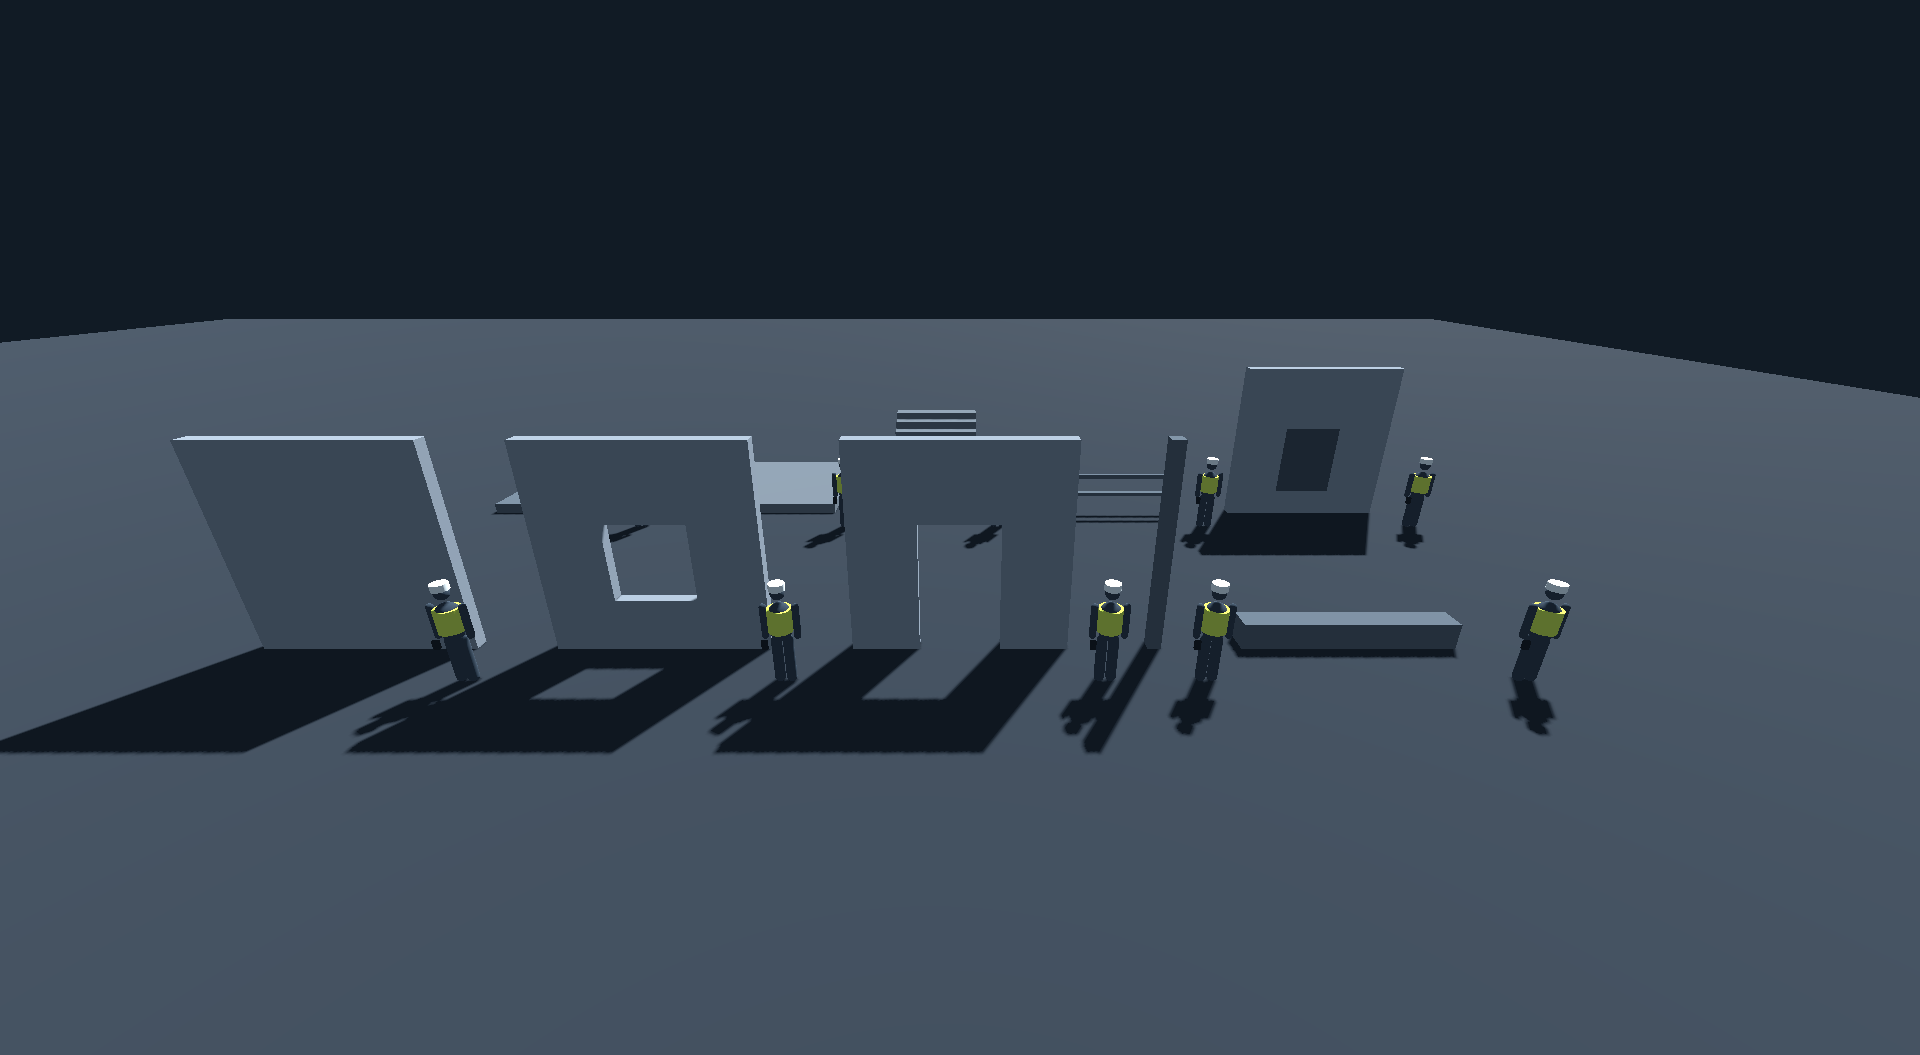
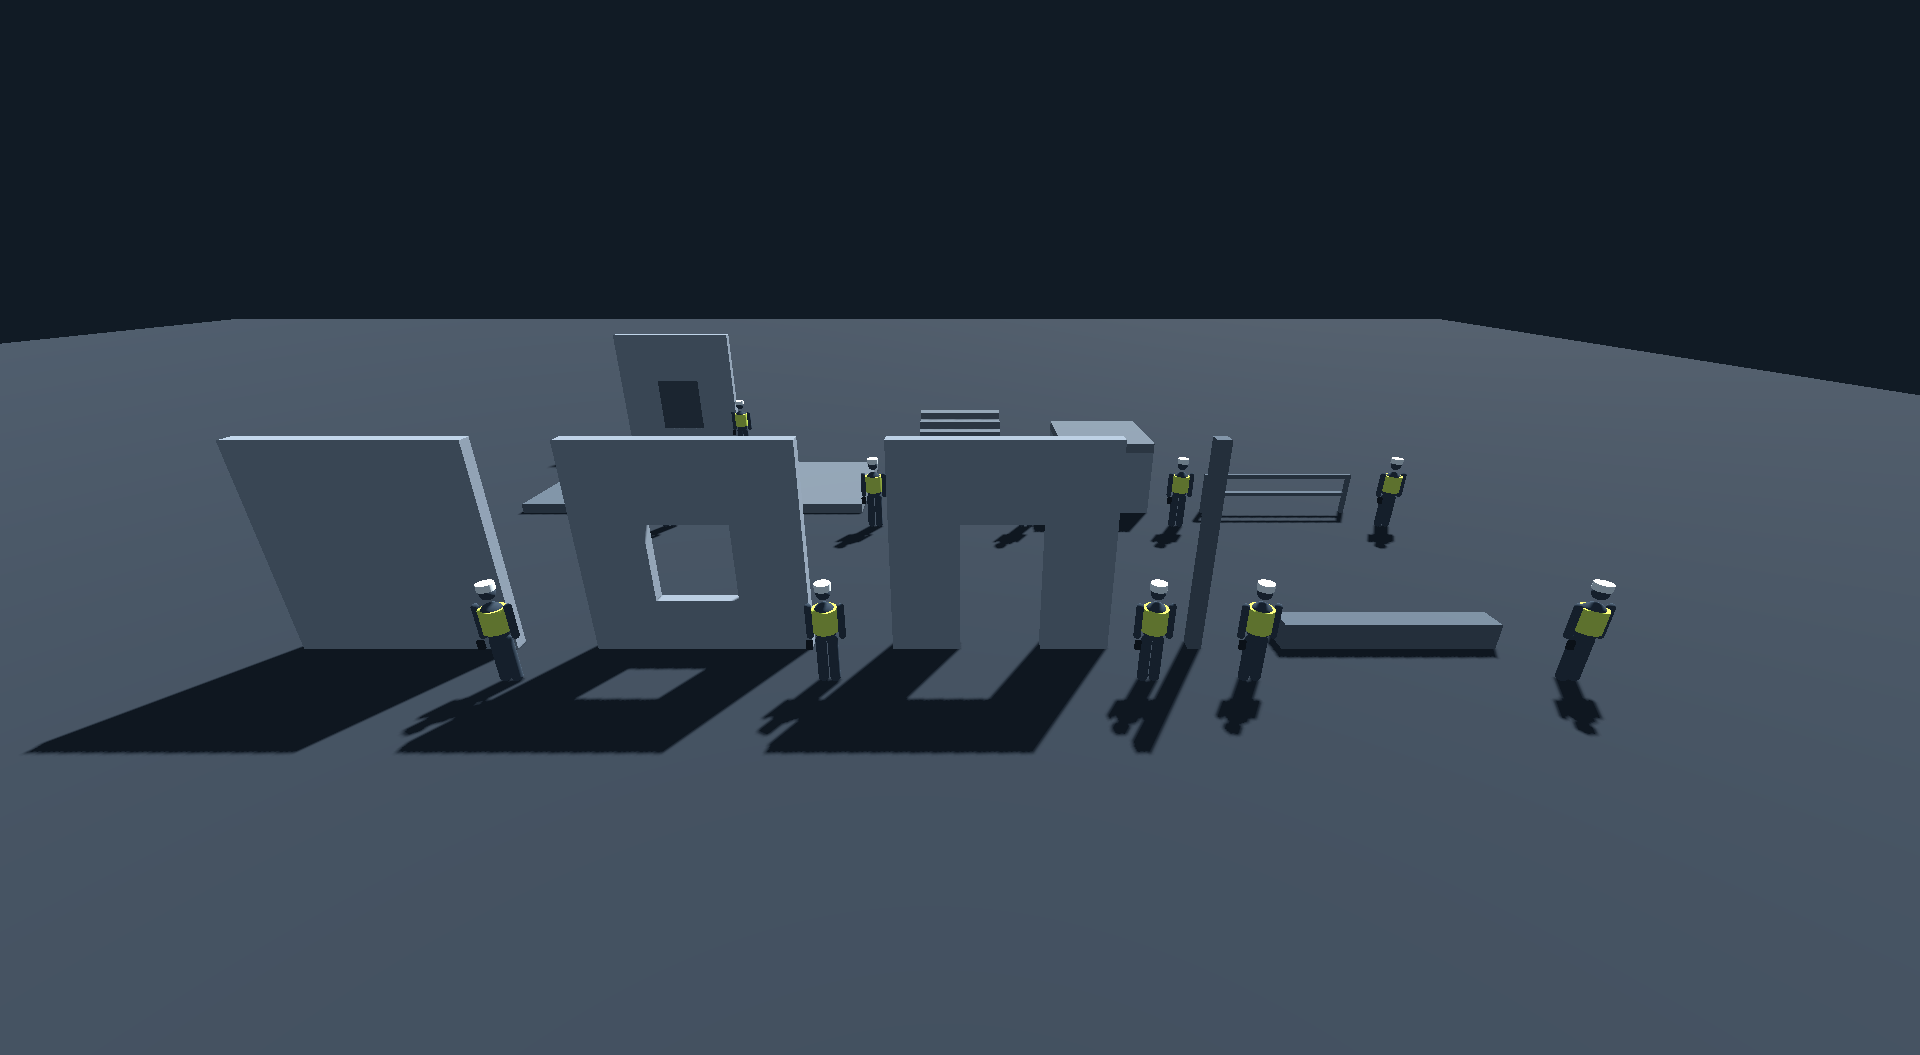
F05: stair landing as the 11th ENV01 kit piece (owner decision)
250 x 200 x 250 cm landing at one flight's rise with edge anchors, so two flights make a
4 m storey straight, L or U. Generated scene (other kit scenes byte-identical), test that
the landing joins two flights, --stairs assembly render. F05 now waits only on V07 contrast.

diff --git a/docs/evidence/F05.md b/docs/evidence/F05.md
@@ -181,7 +181,60 @@ Negative controls (each reverted, then the suite passed again):
   because of its size.
 - The 35 % pseudo-locale layout test and text over the rendered scene come with V07. No game screen uses the theme yet.
 
+## Local part 4: 11th kit piece, the stair landing (30 Oct 2026, desktop session)
+
+- **The owner decided the 11th ENV01 piece is a stair landing** (30 Oct 2026, in the desktop session). Blueprint p.40 counts 11 pieces; p.11 names 10.
+  The branch is the same as parts 2-3 (PR #30). Status stays **CLOUD_VERIFIED**: the only open item is the V07 contrast check.
+- Environment: same PC, GPU and Godot build as part 2.
+
+### What was built
+- `content/world/kit_pieces.json` `stair_landing`, 250 x 200 x 250 cm:
+  - the walking surface is at one flight's rise (200 cm), and the landing is as wide and as deep as a flight;
+  - so two flights make one 4 m storey: straight on, as an L turn, or as a U turn with two landings side by side;
+  - parts are a 25 cm floor slab over a support block;
+  - collision is one box (no seams under the feet);
+  - anchors are `EdgeNear`/`EdgeFar`/`EdgeLeft`/`EdgeRight` at the walking surface.
+  
+  It is solid below because the 175 cm underside is lower than a worker (188 cm).
+- `scenes/kit/stair_landing.tscn`, generated by `tools/godot/build_blockout_kit.gd`. The other 11 scenes regenerated byte-identical, and a rerun
+  gives the same md5 for the new scene (`7c7b5e8d…`).
+- `tools/godot/capture_kit_lineup.gd --stairs` renders flight -> landing -> flight (an L turn), placed only by the pieces' anchors, with one worker at the
+  foot and one on the landing.
+- `tests/unit/test_F05_kit.gd`: the blueprint piece list now has 11 entries, and a new test `test_F05_stair_landing_joins_two_flights_into_one_storey`
+  checks the following:
+  - two flights climb one module;
+  - the landing height equals the rise and its width equals a flight's;
+  - its depth is enough to turn;
+  - the flight's `Top` anchor equals the landing's `EdgeNear`;
+  - every edge anchor is at the walking surface;
+  - collision is one box topped at the surface;
+  - the underside is lower than a worker.
+
+### What was run and observed
+```
+G=/c/Tools/Godot/Godot_v4.7.2-stable_win64_console.exe
+"$G" --headless --path . -s "$PWD/tools/godot/build_blockout_kit.gd"     # 12 x WROTE; only stair_landing.tscn is new
+/c/Tools/Godot/Godot_v4.7.2-stable_win64.exe --path . --resolution 1920x1080 -s "$PWD/tools/godot/capture_kit_lineup.gd" -- --stairs --out=build/kit_stairs.png
+/c/Tools/Godot/Godot_v4.7.2-stable_win64.exe --path . --resolution 1920x1080 -s "$PWD/tools/godot/capture_kit_lineup.gd" -- --out=build/kit_lineup.png
+bash tools/run_tests.sh
+```
+- Kit tests: 10 PASS (the kit/dimension check in `test_F05_tokens.gd` included).
+- Negative control: landing height 200 -> 190 cm in the data without regenerating. Three tests FAIL: bounds vs data, landing joins flights, and
+  collision inside envelope. Reverted.
+- Renders on the GTX 1650: `img/F05_stair_landing.png` (the assembly) and an updated `img/F05_kit_lineup.png`. In the lineup the landing stands in the second row
+  behind the door wall.
+  The upper flight in the assembly floats on purpose, because the graybox has no building around it; in V01 a flight leaving a landing sits against
+  walls or on the storey below.
+
+![F05 stair landing](img/F05_stair_landing.png)
+
+### Not verified / still pending
+- Walking up a flight onto the landing with a real CharacterBody3D is not tested here. V01's walker (PR #29) covers stairs in the graybox; the
+  pump house there uses a single flight.
+- No railing on the landing's open edges: the `railing` piece (400 cm) is longer than the 250 cm landing edge, so final art may need a short
+  railing variant. That would be a variant, not a 12th family.
+
 ## Resume notes (for the next session)
 The kit, the worker silhouette and the UI02 icon set are done, and the owner approved both the kit lineup and the icon set (30 Oct 2026). If the owner wants an icon changed, edit `art_source/ui_icons/<icon>.svg`, rerun `tools/godot/export_icons.gd` and the
-sheet capture, then commit the SVG and PNGs together. The UI font is Noto Sans (part 3). Still open: the 11th kit piece question and rendered HUD
-contrast with V07.
+sheet capture, then commit the SVG and PNGs together. The UI font is Noto Sans (part 3), and the 11th kit piece is the stair landing (part 4). The only open item is
+rendered HUD contrast with V07.
